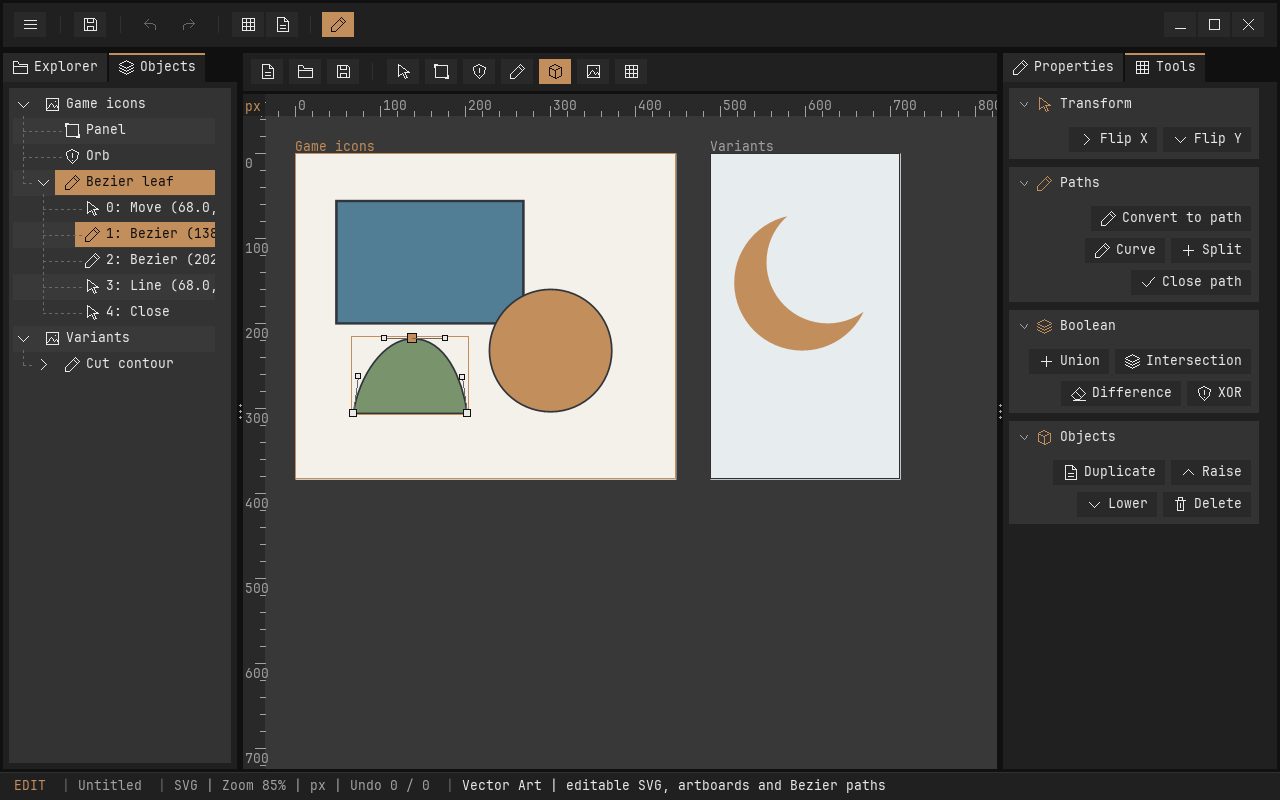
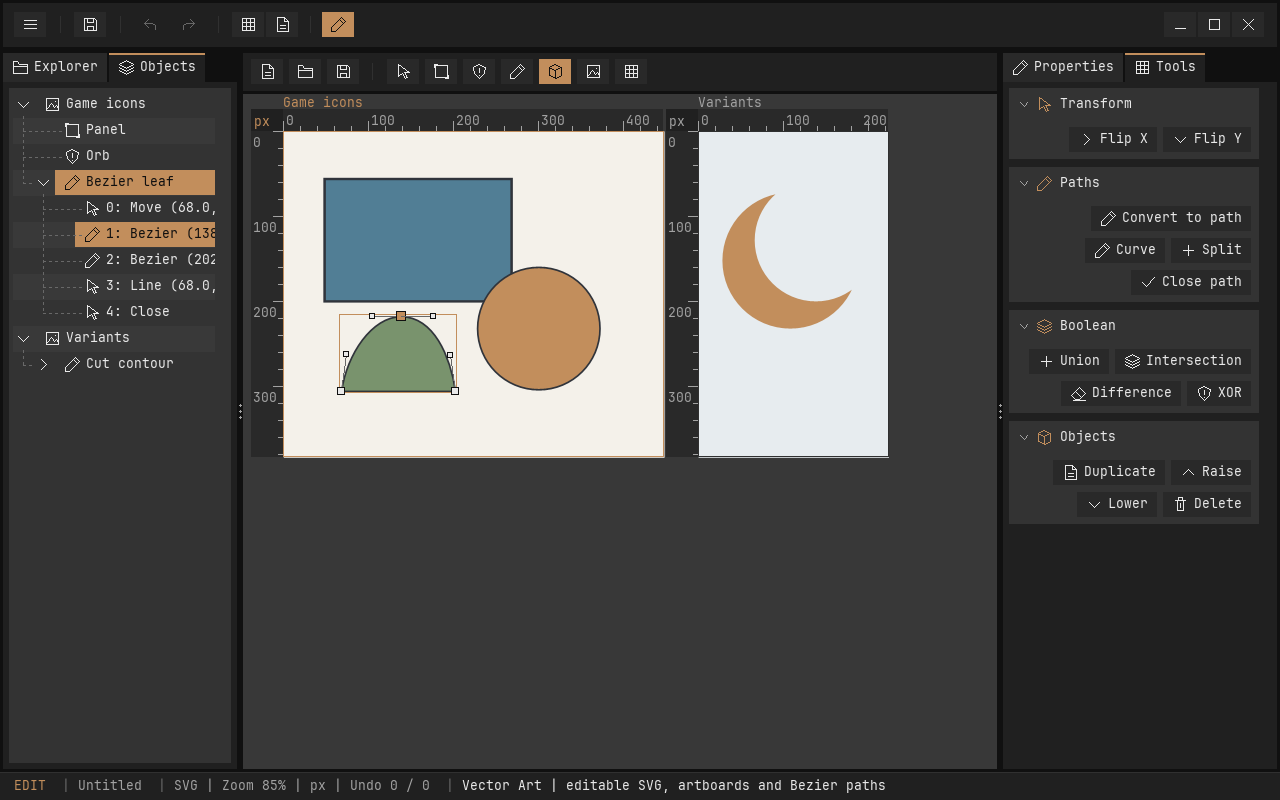
Attach local pixel rulers to every vector artboard

diff --git a/src/editor/editors/vector/render.c b/src/editor/editors/vector/render.c
@@ -71,11 +71,61 @@ static bool raster(void) {
     return true;
 }
 
-static void rulers(SDL_FRect full) {
+static void ruler_axis(const VeBoard *board, SDL_FRect strip, float step, int axis) {
     VectorEditor *v = app.vector;
-    VeBoard *b = &v->document.boards[v->view.board];
-    editor_box((SDL_FRect){full.x, full.y, full.w, 22}, UI_SURFACE);
-    editor_box((SDL_FRect){full.x, full.y, 22, full.h}, UI_SURFACE);
+    if (strip.x + strip.w < v->canvas.x || strip.y + strip.h < v->canvas.y ||
+        strip.x > v->canvas.x + v->canvas.w || strip.y > v->canvas.y + v->canvas.h) {
+        return;
+    }
+    editor_box(strip, UI_SURFACE);
+    ui_clip_push(&app.ui, (UiRect){strip.x, strip.y, strip.w, strip.h});
+    ui_apply_clip(app.renderer, &app.ui);
+    float length = axis ? board->h : board->w;
+    VePoint origin = point(board->x, board->y);
+    float screen = axis ? origin.y : origin.x;
+    float visible = axis ? v->canvas.y : v->canvas.x;
+    float extent = axis ? v->canvas.h : v->canvas.w;
+    float begin = fmaxf(0, (visible - screen) / v->view.zoom);
+    float end = fminf(length, (visible + extent - screen) / v->view.zoom);
+    int start = (int)floorf(begin / step), last = (int)ceilf(end / step);
+    for (int i = start; i <= last && i - start < 2000; i++) {
+        float value = i * step;
+        if (value < 0 || value > length) {
+            continue;
+        }
+        float position = screen + value * v->view.zoom;
+        bool major = i % 5 == 0;
+        editor_draw_color(UI_MUTED);
+        if (axis) {
+            SDL_RenderLine(app.renderer, strip.x + strip.w - (major ? 10 : 5), position,
+                           strip.x + strip.w, position);
+        } else {
+            SDL_RenderLine(app.renderer, position, strip.y + strip.h - (major ? 10 : 5), position,
+                           strip.y + strip.h);
+        }
+        if (major) {
+            char text[32];
+            snprintf(text, sizeof text, "%.0f", value);
+            float label_width = ui_text_width(text);
+            if (label_width + 4 <= strip.w || axis) {
+                float x = axis ? strip.x + 2
+                               : fmaxf(strip.x + 2,
+                                       fminf(position + 3, strip.x + strip.w - label_width - 2));
+                float y = axis ? fminf(position + 8, strip.y + strip.h - 12) : strip.y + 8;
+                editor_text(x, y, text, UI_MUTED);
+            }
+        }
+    }
+    ui_clip_pop(&app.ui);
+    ui_apply_clip(app.renderer, &app.ui);
+}
+
+static void rulers(const VeBoard *board, bool active) {
+    VectorEditor *v = app.vector;
+    VePoint p = point(board->x, board->y);
+    char largest[32];
+    snprintf(largest, sizeof largest, "%.0f", board->h);
+    float width = fmaxf(30, ui_text_width(largest) + 8), height = 22;
     float steps[] = {1, 2, 5, 10, 20, 50, 100, 200, 500, 1000, 2000, 5000};
     float step = 5000;
     for (size_t i = 0; i < sizeof steps / sizeof *steps; i++) {
@@ -84,40 +134,18 @@ static void rulers(SDL_FRect full) {
             break;
         }
     }
-    float x0 = v->view.x - b->x, y0 = v->view.y - b->y;
-    for (int axis = 0; axis < 2; axis++) {
-        float begin = axis ? y0 : x0, extent = (axis ? v->canvas.h : v->canvas.w) / v->view.zoom;
-        int start = (int)floorf(begin / step), end = (int)ceilf((begin + extent) / step);
-        for (int i = start; i <= end && i - start < 2000; i++) {
-            float value = i * step;
-            VePoint p = point(axis ? b->x : b->x + value, axis ? b->y + value : b->y);
-            bool major = i % 5 == 0;
-            editor_draw_color(UI_MUTED);
-            if (axis) {
-                SDL_RenderLine(app.renderer, full.x + 22 - (major ? 10 : 5), p.y, full.x + 22, p.y);
-            } else {
-                SDL_RenderLine(app.renderer, p.x, full.y + 22 - (major ? 10 : 5), p.x, full.y + 22);
-            }
-            if (major) {
-                char text[32];
-                snprintf(text, sizeof text, "%.0f", value);
-                if (axis) {
-                    editor_text(full.x + 2, p.y + 7, text, UI_MUTED);
-                } else {
-                    editor_text(p.x + 3, full.y + 8, text, UI_MUTED);
-                }
-            }
-        }
-    }
-    editor_box((SDL_FRect){full.x, full.y, 22, 22}, UI_PANEL);
-    editor_text(full.x + 2, full.y + 9, "px", UI_ACCENT);
+    ruler_axis(board, (SDL_FRect){p.x, p.y - height, board->w * v->view.zoom, height}, step, 0);
+    ruler_axis(board, (SDL_FRect){p.x - width, p.y, width, board->h * v->view.zoom}, step, 1);
+    editor_box((SDL_FRect){p.x - width, p.y - height, width, height}, UI_PANEL);
+    editor_text(p.x - width + 3, p.y - height + 9, "px", active ? UI_ACCENT : UI_MUTED);
+    editor_text(p.x, p.y - height - 10, board->name, active ? UI_ACCENT : UI_MUTED);
 }
 
 void vector_draw_canvas(void) {
     VectorEditor *v = app.vector;
     SDL_FRect full = app.viewport;
     editor_box(full, 0x383838ff);
-    v->canvas = (SDL_FRect){full.x + 22, full.y + 22, fmaxf(0, full.w - 22), fmaxf(0, full.h - 22)};
+    v->canvas = full;
     UiRect clip = {v->canvas.x, v->canvas.y, v->canvas.w, v->canvas.h};
     ui_clip_push(&app.ui, clip);
     ui_apply_clip(app.renderer, &app.ui);
@@ -133,7 +161,6 @@ void vector_draw_canvas(void) {
         SDL_FRect rect = {p.x, p.y, board->w * v->view.zoom, board->h * v->view.zoom};
         editor_draw_color(v->view.board == b ? UI_ACCENT : UI_BORDER);
         SDL_RenderRect(app.renderer, &rect);
-        editor_text(p.x, p.y - 10, board->name, v->view.board == b ? UI_ACCENT : UI_MUTED);
     }
     for (int i = 0; i < VE_SHAPES; i++) {
         VeShape *s = &v->document.shapes[i];
@@ -171,7 +198,11 @@ void vector_draw_canvas(void) {
             previous = anchor;
         }
     }
+    for (int b = 0; b < VE_BOARDS; b++) {
+        if (v->document.boards[b].used) {
+            rulers(&v->document.boards[b], v->view.board == b);
+        }
+    }
     ui_clip_pop(&app.ui);
     ui_apply_clip(app.renderer, &app.ui);
-    rulers(full);
 }

diff --git a/src/editor/editors/vector/actions.c b/src/editor/editors/vector/actions.c
@@ -33,10 +33,13 @@ bool vector_action(const char *action) {
     }
     if (!strcmp(name, "fit")) {
         VeBoard *b = &v->document.boards[v->view.board];
-        v->view.zoom =
-            fminf(fmaxf(.02f, (v->canvas.w - 80) / b->w), fmaxf(.02f, (v->canvas.h - 80) / b->h));
+        char label[32];
+        snprintf(label, sizeof label, "%.0f", b->h);
+        float margin = fmaxf(40, ui_text_width(label) + 20);
+        v->view.zoom = fminf(fmaxf(.02f, (v->canvas.w - 2 * margin) / b->w),
+                             fmaxf(.02f, (v->canvas.h - 80) / b->h));
         v->view.zoom = fminf(32, v->view.zoom);
-        v->view.x = b->x - 40 / v->view.zoom;
+        v->view.x = b->x - margin / v->view.zoom;
         v->view.y = b->y - 40 / v->view.zoom;
         v->render_dirty = true;
         return true;

diff --git a/src/editor/editors/vector/demo.c b/src/editor/editors/vector/demo.c
@@ -44,7 +44,7 @@ void vector_demo(void) {
     v->view.node = 1;
     v->view.expanded_paths[0] = p->id;
     v->view.zoom = .85f;
-    v->view.x = -36;
+    v->view.x = -48;
     v->view.y = -44;
     app.right_tabs.selected = ui_id("vector_tools_tab");
     v->render_dirty = true;

diff --git a/docs/VECTOR_EDITOR.md b/docs/VECTOR_EDITOR.md
@@ -20,7 +20,7 @@ Mit **A** eine neue Zeichenfläche ziehen. Artboards werden links als Eltern der
 
 **Alt+Ziehen** auf einem Artboard verschiebt es einschließlich seiner Objekte. Die Objektkoordinaten bleiben dabei lokal. Beim Verschieben eines Objekts in ein anderes Artboard wechselt seine Zuordnung anhand seiner Mitte; die sichtbare Weltposition bleibt erhalten. Delete entfernt die Auswahl, oder ohne Objektauswahl das aktive Artboard samt Inhalt. Mindestens ein Artboard bleibt bestehen.
 
-Die horizontalen und vertikalen Lineale verwenden **Pixel relativ zum aktiven Artboard**. Sie passen ihre Teilung an den Zoom an. **Mittlere Maustaste** verschiebt die Ansicht, **Mausrad** zoomt um den Zeiger. Fit passt das aktive Artboard in den sichtbaren Bereich ein. Navigation und Zoom sind keine Dokument-Undo-Schritte.
+Jedes Artboard besitzt ein eigenes horizontales und vertikales Lineal direkt außerhalb seiner oberen und linken Kante. Beide beginnen bei **0 lokalen Pixeln** und enden an der Artboardgröße. Sie wandern mit dem Artboard und der Ansicht mit; Teilstriche passen sich an den Zoom an, Beschriftung und Leistenhöhe bleiben am Bildschirm lesbar. Die Lineale gehören nur zur Editoranzeige und werden nicht in das SVG exportiert. Der Canvas hat keine gemeinsamen Randlineale mehr. **Mittlere Maustaste** verschiebt die Ansicht, **Mausrad** zoomt um den Zeiger. Fit passt das aktive Artboard in den sichtbaren Bereich ein. Navigation und Zoom sind keine Dokument-Undo-Schritte.
 
 SVG definiert selbst keine Editor-Artboards. Penguin speichert deshalb jedes Artboard als gewöhnliche `<g>`-Gruppe mit Translation, Hintergrundrechteck und `data-penguin-artboard`. Ein `<metadata id="penguin-vector">`-Element enthält zusätzlich das validierte Dokumentmodell. Der sichtbare SVG-Inhalt bleibt in üblichen SVG-Anwendungen darstellbar; die Metadaten erhalten beim erneuten Öffnen in Penguin die Artboards und Grundformen.
 

diff --git a/docs/TESTPLAN.md b/docs/TESTPLAN.md
@@ -145,3 +145,5 @@ Dreizehn SDL-freie `vector_unit_tests` prüfen primitive Formen, Bézier-Konvert
 Manuell `--vector-demo` starten: Zoom/Pan und Pixel-Lineale, Pfad-/Kontrollpunktgriffe, Circle/Rectangle mit Shift, Artboard-Hintergrund und Konturfarben einschließlich Alpha, zwei Objekte mit Shift auswählen und Union/Intersection/Difference/XOR samt Undo prüfen. SVG aus einem anderen Programm öffnen und Grenzen des unterstützten Teilumfangs beachten. Beim Schließen mit Änderungen in allen drei Editoren Save/Discard/Cancel einschließlich erstem Save-As-Pfad prüfen. Screenshots und Bedienung: [VECTOR_EDITOR.md](VECTOR_EDITOR.md).
 
 Tools-Tab: Rechts Transform/Paths/Boolean/Objects auf- und zuklappen, Aktionen ausführen und Undo prüfen. Die Zeichen-Toolbar bleibt einzeilig. Bei schmaler Spalte brechen Aktionszeilen rechtsbündig um, bei niedriger Fensterhöhe scrollen nur die Tools (nicht Properties). Der GUI-Smoke bedient Flip X, Klappüberschrift, Mausrad, F6 und Editorwechsel; ein Unity-Schematest prüft Tool-Panel-Abschnitte und weist fremde Kindtypen ab.
+
+Artboard-Lineale: Bei `--vector-demo` besitzt jedes Artboard eigene Pixel-Lineale oben/links mit lokalem Nullpunkt. Zweites Artboard aktivieren, verschieben, zoomen und pannen: beide Skalen bleiben ihrem Artboard zugeordnet. Teilweise aus dem Canvas schieben und Fit bei großen Dimensionen prüfen; keine Lineale oder Zahlen dürfen in Nachbarpanels zeichnen. SVG speichern/erneut öffnen: Lineale sind UI, keine SVG-Geometrie.
